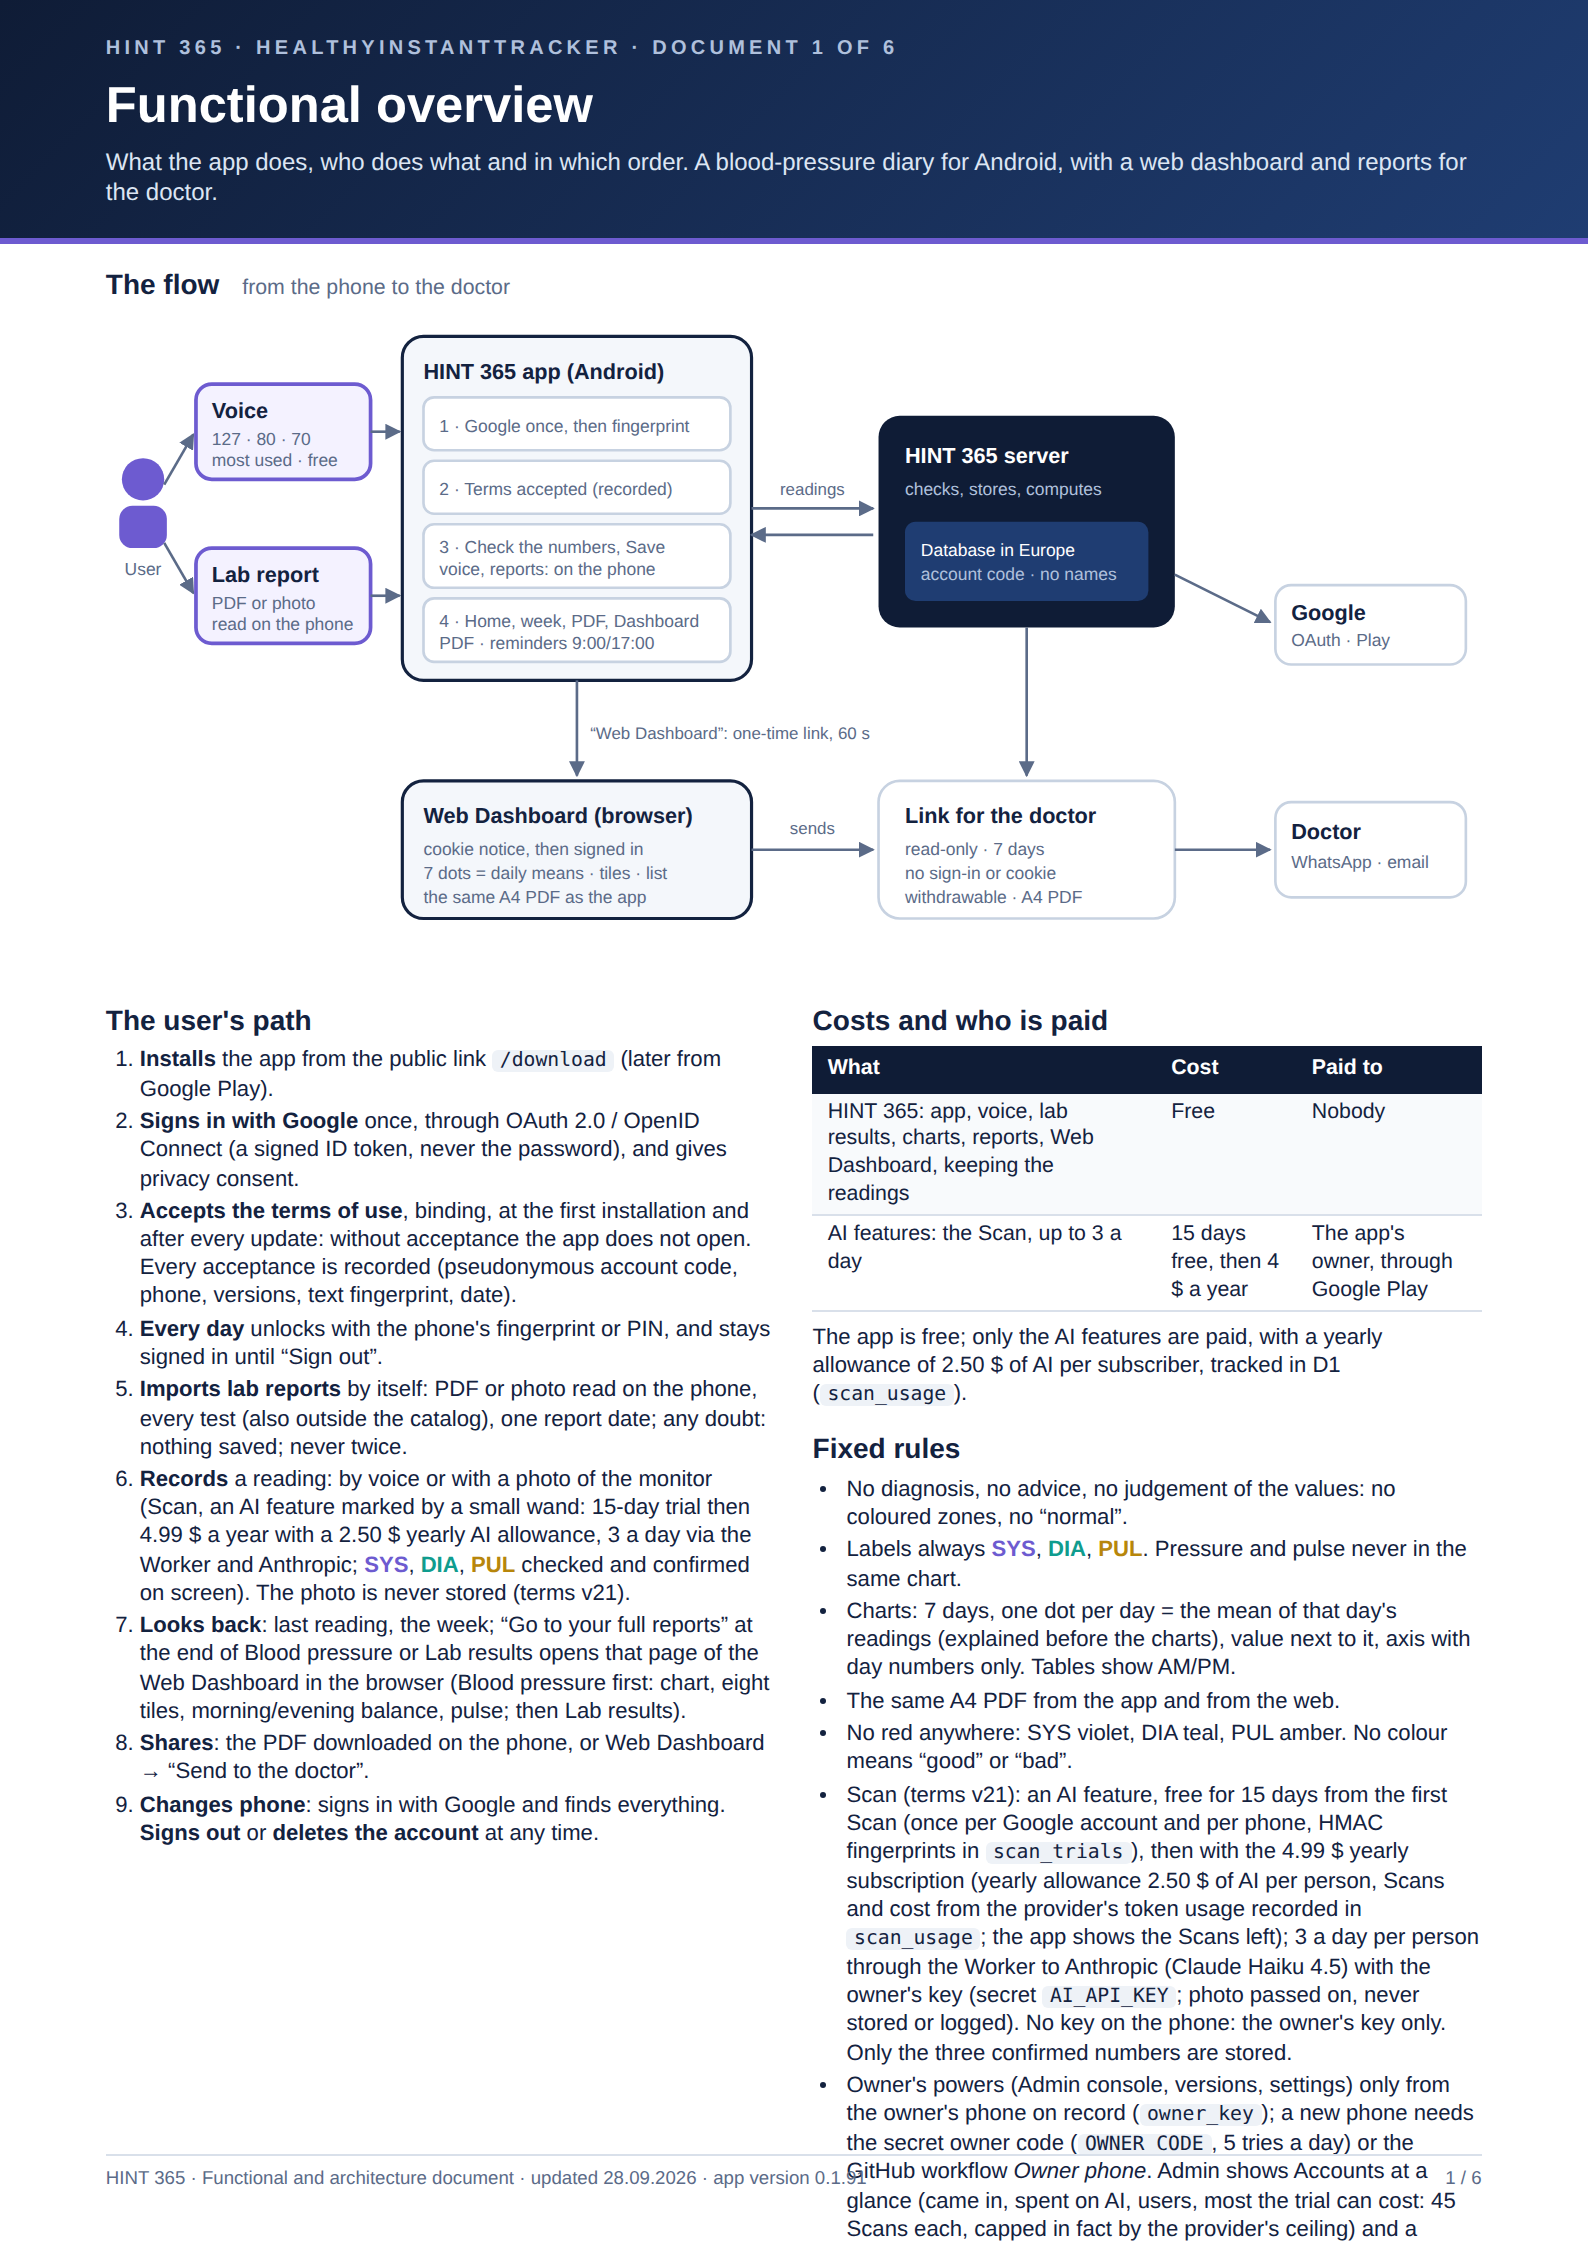
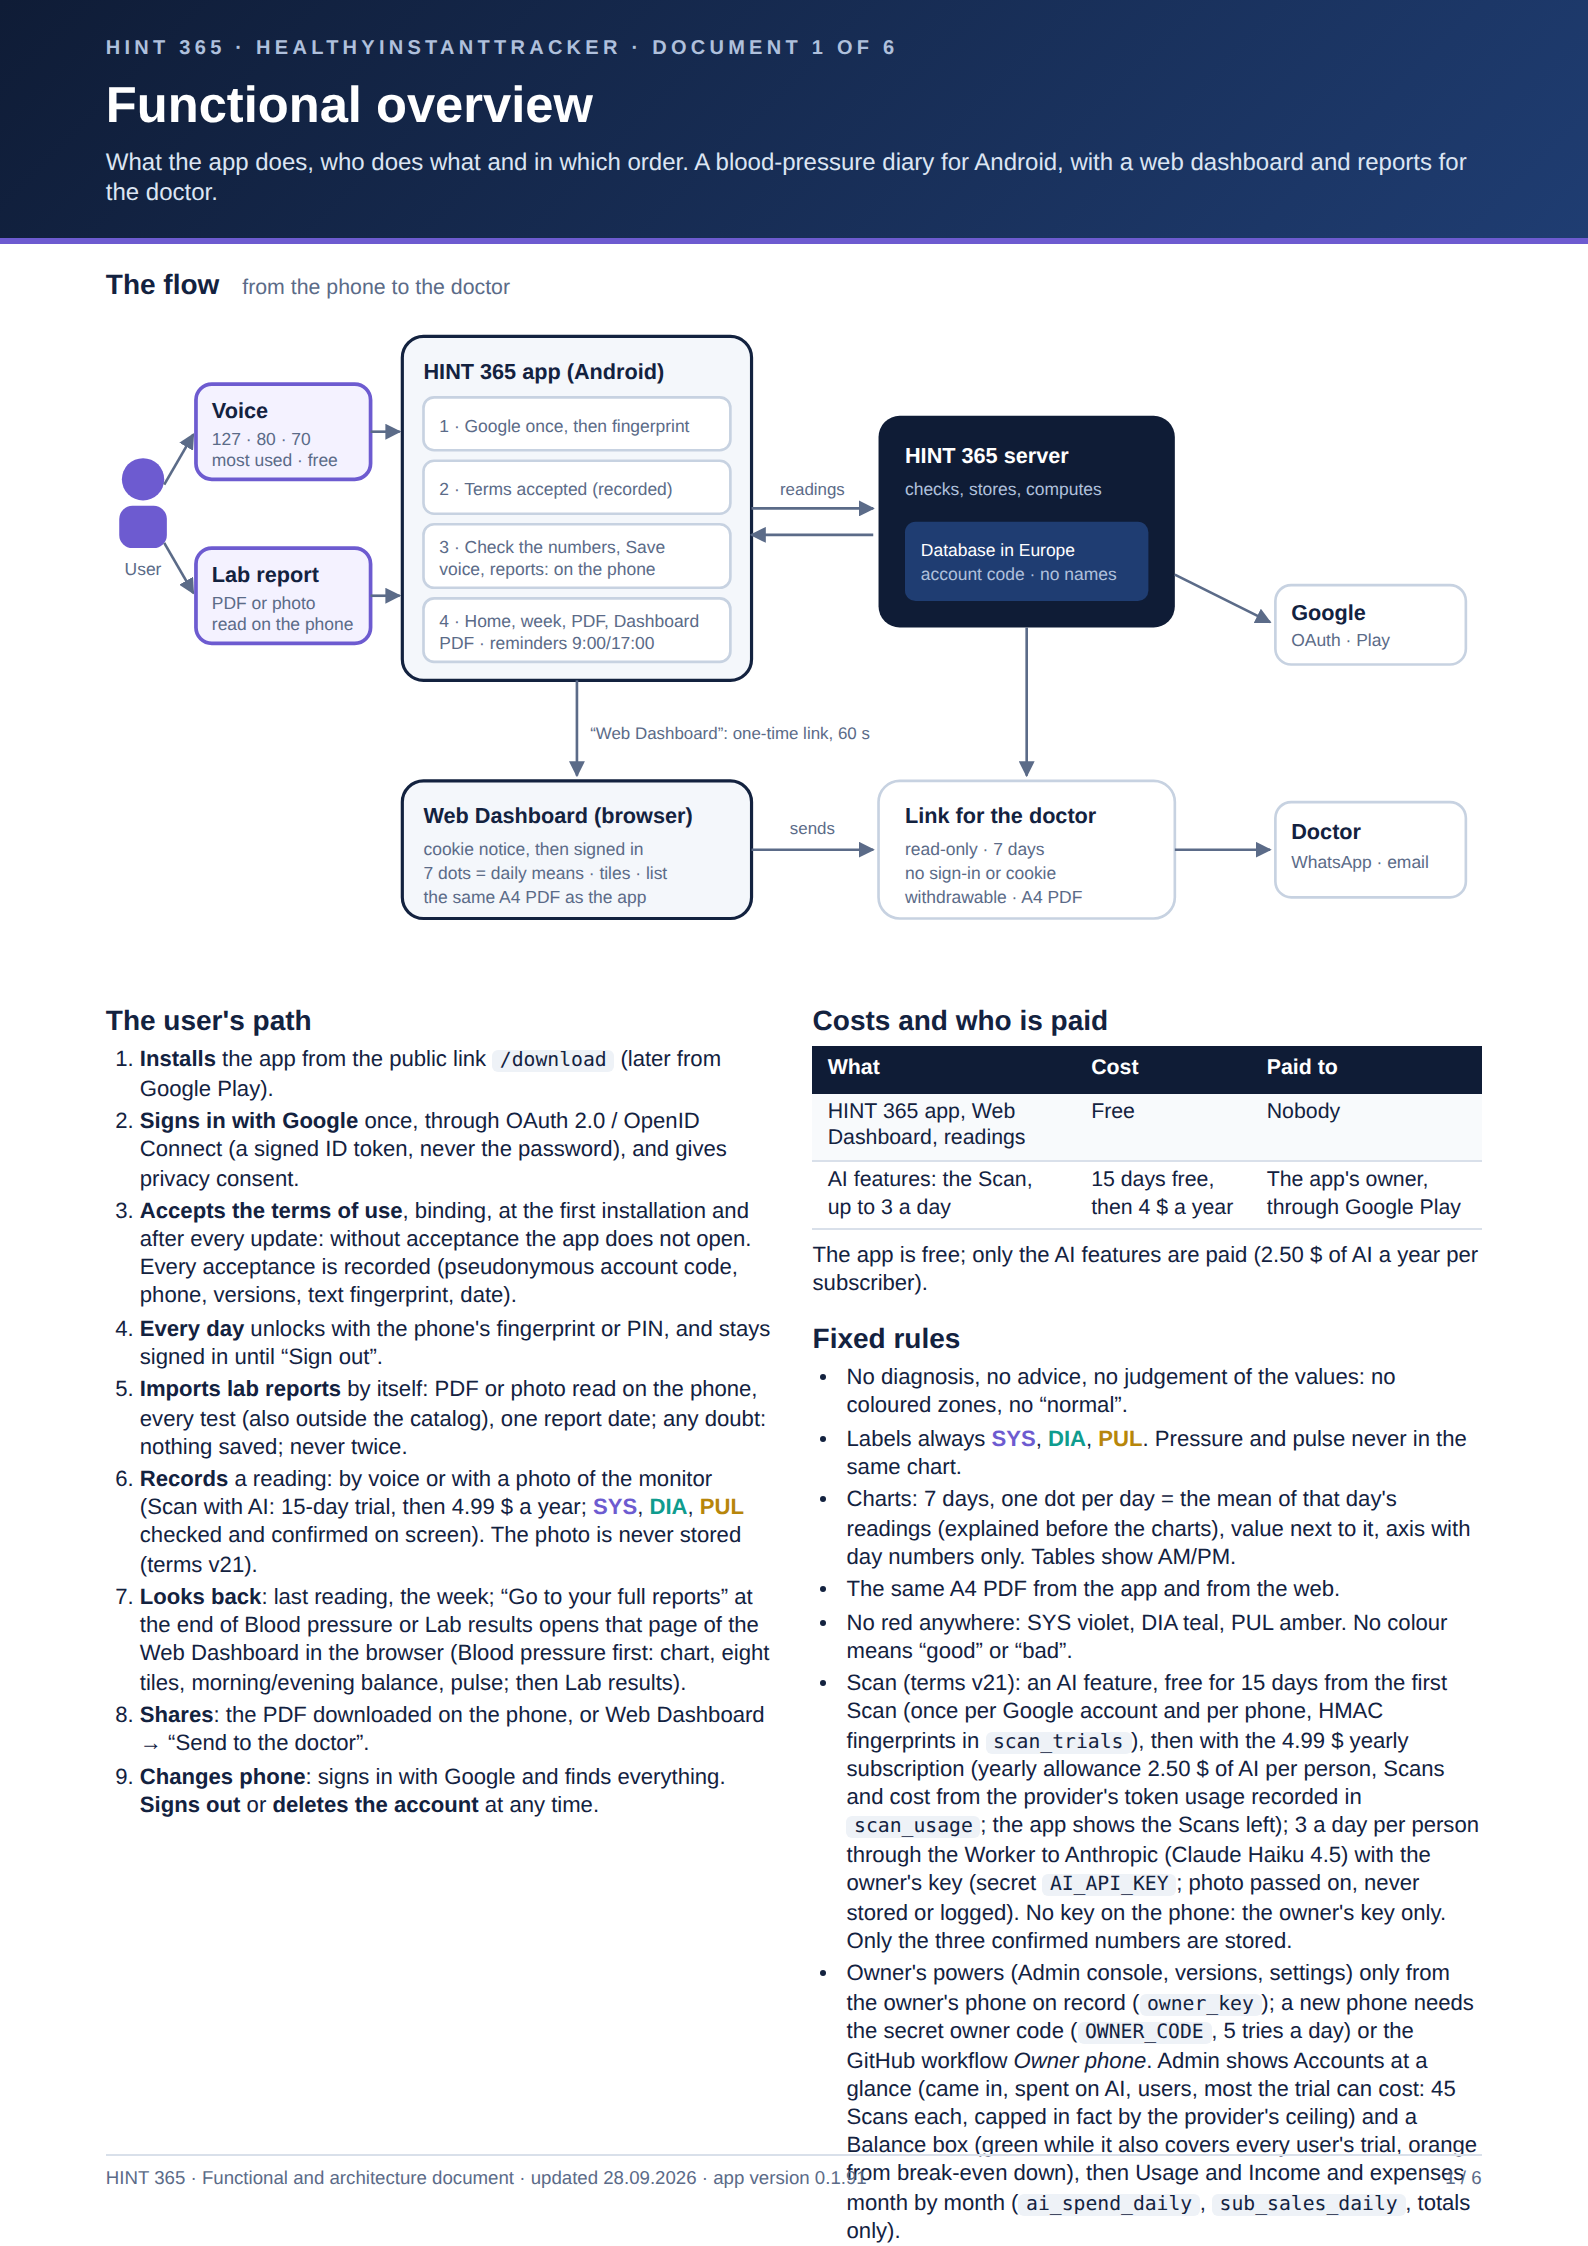
Architettura: pagina 1 più corta (il controllo di impaginazione in CI)
Claude-Session: https://claude.ai/code/session_01HVZvBazZhZm9RtUYMabxtB

Changed region(s): [[0.4937, 0.4675, 0.9257, 0.9973], [0.0617, 0.6545, 0.4937, 0.8415]]

diff --git a/docs/architecture/architecture.html b/docs/architecture/architecture.html
@@ -114,7 +114,7 @@
         <li><b>Accepts the terms of use</b>, binding, at the first installation and after every update: without acceptance the app does not open. Every acceptance is recorded (pseudonymous account code, phone, versions, text fingerprint, date).</li>
         <li><b>Every day</b> unlocks with the phone's fingerprint or PIN, and stays signed in until “Sign out”.</li>
         <li><b>Imports lab reports</b> by itself: PDF or photo read on the phone, every test (also outside the catalog), one report date; any doubt: nothing saved; never twice.</li>
-        <li><b>Records</b> a reading: by voice or with a photo of the monitor (Scan, an AI feature marked by a small wand: 15-day trial then 4.99 $ a year with a 2.50 $ yearly AI allowance, 3 a day via the Worker and Anthropic; <b class="sys">SYS</b>, <b class="dia">DIA</b>, <b class="pul">PUL</b> checked and confirmed on screen). The photo is never stored (terms v21).</li>
+        <li><b>Records</b> a reading: by voice or with a photo of the monitor (Scan with AI: 15-day trial, then 4.99 $ a year; <b class="sys">SYS</b>, <b class="dia">DIA</b>, <b class="pul">PUL</b> checked and confirmed on screen). The photo is never stored (terms v21).</li>
         <li><b>Looks back</b>: last reading, the week; “Go to your full reports” at the end of Blood pressure or Lab results opens that page of the Web Dashboard in the browser (Blood pressure first: chart, eight tiles, morning/evening balance, pulse; then Lab results).</li>
         <li><b>Shares</b>: the PDF downloaded on the phone, or Web Dashboard → “Send to the doctor”.</li>
         <li><b>Changes phone</b>: signs in with Google and finds everything. <b>Signs out</b> or <b>deletes the account</b> at any time.</li>
@@ -124,10 +124,10 @@
       <h2>Costs and who is paid</h2>
       <table>
         <tr><th>What</th><th>Cost</th><th>Paid to</th></tr>
-        <tr><td>HINT 365: app, voice, lab results, charts, reports, Web Dashboard, keeping the readings</td><td>Free</td><td>Nobody</td></tr>
+        <tr><td>HINT 365 app, Web Dashboard, readings</td><td>Free</td><td>Nobody</td></tr>
         <tr><td>AI features: the Scan, up to 3 a day</td><td>15 days free, then 4 $ a year</td><td>The app's owner, through Google Play</td></tr>
       </table>
-      <p style="margin-top:1.5mm">The app is free; only the AI features are paid, with a yearly allowance of 2.50 $ of AI per subscriber, tracked in D1 (<code>scan_usage</code>).</p>
+      <p style="margin-top:1.5mm">The app is free; only the AI features are paid (2.50 $ of AI a year per subscriber).</p>
       <h2>Fixed rules</h2>
       <ul>
         <li>No diagnosis, no advice, no judgement of the values: no coloured zones, no “normal”.</li>
